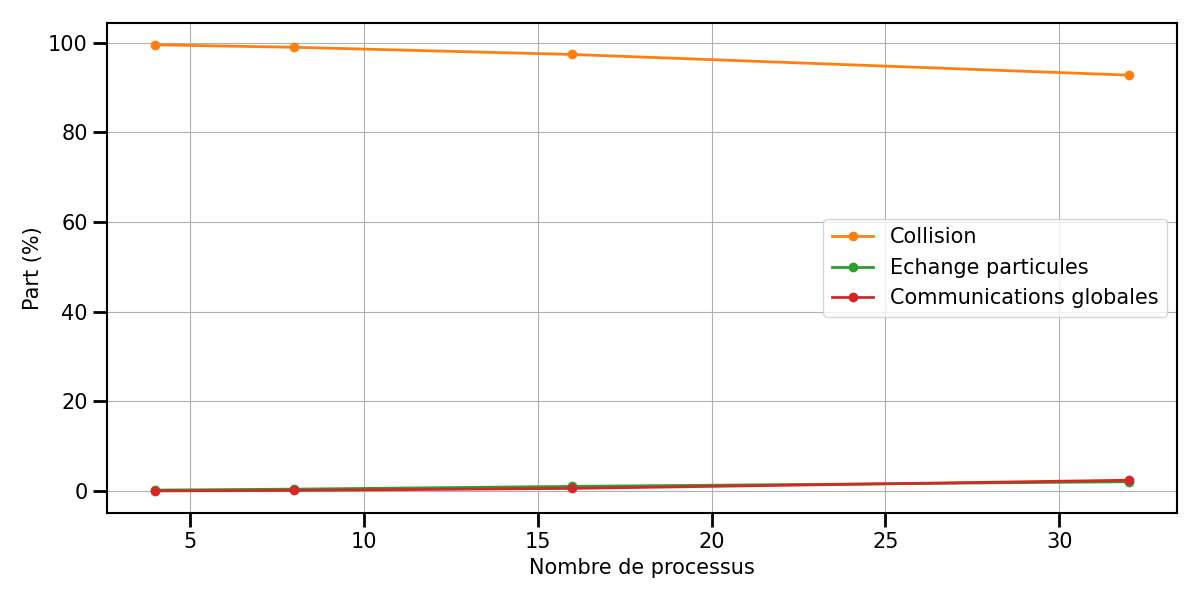
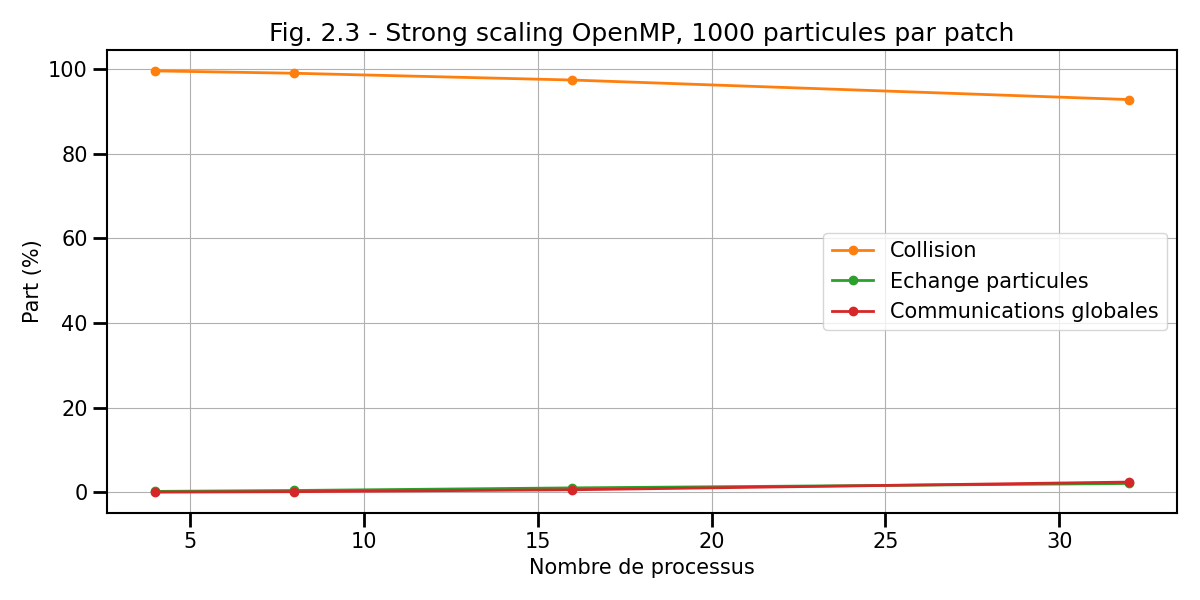
Marble: scaling figures

diff --git a/tp/marble/scalings/strong_scaling_mpi_ppp1000.py b/tp/marble/scalings/strong_scaling_mpi_ppp1000.py
@@ -57,38 +57,52 @@ rcParams['ytick.major.width'] = 2
 rcParams['xtick.minor.width'] = 1.5
 rcParams['ytick.minor.width'] = 1.5
 
+rcParams['axes.grid'] = True
+
+
 # ______________________________________________________________________________
 # Figure temps de simulation
 
-fig = figure(figsize=(12, 6))
+fig0 = figure(figsize=(12, 8))
 gs = GridSpec(2, 2)
-ax = subplot(gs[:,:])
+ax0 = subplot(gs[0,:])
+ax1 = subplot(gs[1,:])
 
-ax.plot(times["cores"],times["loop"],lw=2,label="Boucle de calcul")
-ax.plot(times["cores"],times["collision"],lw=2,label="Collision")
-ax.plot(times["cores"],times["exchange"],lw=2,label="Echange particules")
-ax.plot(times["cores"],times["global"],lw=2,label="Communications globales")
-ax.plot(times["cores"],times["pusher"],lw=2,label="Equation du mouvement")
+ax0.plot(times["cores"],times["loop"],lw=2,label="Boucle de calcul")
+ax0.plot(times["cores"],times["collision"],lw=2,label="Collision")
+ax1.plot(times["cores"],times["exchange"],lw=2,label="Echange particules")
+ax1.plot(times["cores"],times["global"],lw=2,label="Communications globales")
+ax1.plot(times["cores"],times["pusher"],lw=2,label="Equation du mouvement")
 
-ax.set_xlabel("Nombre de processus")
-ax.set_ylabel("Temps (s)")
+ax0.set_xlabel("Nombre de processus")
+ax0.set_ylabel("Temps (s)")
+
+ax1.set_xlabel("Nombre de processus")
+ax1.set_ylabel("Temps (s)")
+
+ax0.set_title("Fig. 5.1 - Strong scaling MPI, 1000 particules par patch")
 
 #ax.set_yscale("log")
 
-ax.legend(loc="best",ncol=2)
+ax0.legend(loc="best",ncol=2)
+ax1.legend(loc="best",ncol=2)
 
-fig.tight_layout()
+fig0.tight_layout()
+
+fig0.savefig("../../../support/materiel/marble_mpi_strong_scaling_ppp1000_time.png")
 
 # ______________________________________________________________________________
 # Figure efficacite
 
-fig = figure(figsize=(12, 6))
+fig1 = figure(figsize=(12, 6))
 gs = GridSpec(2, 2)
 ax = subplot(gs[:,:])
 
 ax.plot(times["cores"],times["efficiency"],lw=2,label="Simulation")
 
 ax.plot([times["cores"].min(), times["cores"].max()],[1,1],lw=2,label="Scalabilite parfaite")
+
+ax.set_title("Fig. 5.2 - Strong scaling MPI, 1000 particules par patch")
 
 # ax.set_ylim([0.,1.1])
 
@@ -97,12 +111,14 @@ ax.set_ylabel("Efficacite")
 
 ax.legend(loc="best")
 
-fig.tight_layout()
+fig1.tight_layout()
+
+fig1.savefig("../../../support/materiel/marble_mpi_strong_scaling_ppp1000_efficiency.png")
 
 # ______________________________________________________________________________
 # Figure Part MPI
 
-fig = figure(figsize=(12, 6))
+fig2 = figure(figsize=(12, 6))
 gs = GridSpec(2, 2)
 ax = subplot(gs[:,:])
 
@@ -110,12 +126,16 @@ ax.plot(times["cores"],times["collision"]/times["loop"]*100.,lw=2,color='C1',lab
 ax.plot(times["cores"],times["exchange"]/times["loop"]*100.,lw=2,color='C2',label='Echange particules')
 ax.plot(times["cores"],times["global"]/times["loop"]*100.,lw=2,color='C3',label='Communications globales')
 
+ax.set_title("Fig. 5.3 - Strong scaling MPI, 1000 particules par patch")
+
 ax.set_xlabel("Nombre de processus")
 ax.set_ylabel("Part (%)")
 
 ax.legend(loc="best")
 
-fig.tight_layout()
+fig2.tight_layout()
+
+fig2.savefig("../../../support/materiel/marble_mpi_strong_scaling_ppp1000_time.png")
 
 # _____________________________________________________________________________
 

diff --git a/tp/marble/scalings/weak_scaling_omp_ppp2000.py b/tp/marble/scalings/weak_scaling_omp_ppp2000.py
@@ -66,29 +66,36 @@ rcParams['axes.grid'] = True
 # ______________________________________________________________________________
 # Figure temps de simulation
 
-fig = figure(figsize=(12, 6))
+fig0 = figure(figsize=(12, 8))
 gs = GridSpec(2, 2)
-ax = subplot(gs[:,:])
+ax0 = subplot(gs[0,:])
+ax1 = subplot(gs[1,:])
 
-ax.plot(times["cores"],times["loop"],lw=2,label="Boucle de calcul",marker='o',color='C0')
-ax.plot(times["cores"],times["collision"],lw=2,label="Collision",marker='o',color='C1')
-ax.plot(times["cores"],times["exchange"],lw=2,label="Echange particules",marker='o',color='C2')
-ax.plot(times["cores"],times["global"],lw=2,label="Communications globales",marker='o',color='C3')
-ax.plot(times["cores"],times["pusher"],lw=2,label="Equation du mouvement",marker='o',color='C4')
+ax0.plot(times["cores"],times["loop"],lw=2,label="Boucle de calcul",marker='o',color='C0')
+ax0.plot(times["cores"],times["collision"],lw=2,label="Collision",marker='o',color='C1')
+ax1.plot(times["cores"],times["exchange"],lw=2,label="Echange particules",marker='o',color='C2')
+ax1.plot(times["cores"],times["global"],lw=2,label="Communications globales",marker='o',color='C3')
+ax1.plot(times["cores"],times["pusher"],lw=2,label="Equation du mouvement",marker='o',color='C4')
 
-ax.set_xlabel("Nombre de processus")
-ax.set_ylabel("Temps (s)")
+ax0.set_xlabel("Nombre de processus")
+ax0.set_ylabel("Temps (s)")
+
+ax1.set_xlabel("Nombre de processus")
+ax1.set_ylabel("Temps (s)")
+
+ax0.set_title("Fig. 1.1 - Weak scaling OpenMP, 2000 particules par patch")
 
 #ax.set_yscale("log")
 
-ax.legend(loc="best",ncol=2)
+ax0.legend(loc="best",ncol=2)
+ax1.legend(loc="best",ncol=2)
 
-fig.tight_layout()
+fig0.tight_layout()
 
 # ______________________________________________________________________________
 # Figure efficacite
 
-fig = figure(figsize=(12, 6))
+fig1 = figure(figsize=(12, 6))
 gs = GridSpec(2, 2)
 ax = subplot(gs[:,:])
 
@@ -98,17 +105,19 @@ ax.plot([times["cores"].min(), times["cores"].max()],[1,1],lw=2,label="Scalabili
 
 ax.set_ylim([0.,1.1])
 
+ax.set_title("Fig. 1.2 - Weak scaling OpenMP, 2000 particules par patch")
+
 ax.set_xlabel("Nombre de processus")
 ax.set_ylabel("Efficacite")
 
 ax.legend(loc="best")
 
-fig.tight_layout()
+fig1.tight_layout()
 
 # ______________________________________________________________________________
 # Figure Part MPI
 
-fig = figure(figsize=(12, 6))
+fig2 = figure(figsize=(12, 6))
 gs = GridSpec(2, 2)
 ax = subplot(gs[:,:])
 
@@ -116,12 +125,14 @@ ax.plot(times["cores"],times["collision"]/times["loop"]*100.,lw=2,color='C1',lab
 ax.plot(times["cores"],times["exchange"]/times["loop"]*100.,lw=2,color='C2',label='part echange particules')
 ax.plot(times["cores"],times["global"]/times["loop"]*100.,lw=2,color='C3',label='part communications globales')
 
+ax.set_title("Fig. 1.3 - Weak scaling OpenMP, 2000 particules par patch")
+
 ax.set_xlabel("Nombre de processus")
 ax.set_ylabel("Part (%)")
 
 ax.legend(loc="best")
 
-fig.tight_layout()
+fig2.tight_layout()
 
 # _____________________________________________________________________________
 

diff --git a/tp/marble/scalings/weak_scaling_mpi_ppp2000.py b/tp/marble/scalings/weak_scaling_mpi_ppp2000.py
@@ -57,6 +57,8 @@ rcParams['ytick.major.width'] = 2
 rcParams['xtick.minor.width'] = 1.5
 rcParams['ytick.minor.width'] = 1.5
 
+rcParams['axes.grid'] = True
+
 # ______________________________________________________________________________
 # Figure temps de simulation
 
@@ -69,6 +71,9 @@ ax.plot(times["cores"],times["collision"],lw=2,label="Collision")
 ax.plot(times["cores"],times["exchange"],lw=2,label="Echange particules")
 ax.plot(times["cores"],times["global"],lw=2,label="Communications globales")
 ax.plot(times["cores"],times["pusher"],lw=2,label="Equation du mouvement")
+
+ax.set_title("Fig. 5.1 - Weak scaling MPI, 2000 particules par patch")
+
 
 ax.set_xlabel("Nombre de processus")
 ax.set_ylabel("Temps (s)")
@@ -90,6 +95,8 @@ ax.plot(times["cores"],times["efficiency"],lw=2,label="Simulation")
 
 ax.plot([times["cores"].min(), times["cores"].max()],[1,1],lw=2,label="Scalabilite parfaite")
 
+ax.set_title("Fig. 5.2 - Weak scaling MPI, 2000 particules par patch")
+
 ax.set_ylim([0.,1.1])
 
 ax.set_xlabel("Nombre de processus")
@@ -109,6 +116,8 @@ ax = subplot(gs[:,:])
 ax.plot(times["cores"],times["collision"]/times["loop"]*100.,lw=2,color='C1',label='part collision')
 ax.plot(times["cores"],times["exchange"]/times["loop"]*100.,lw=2,color='C2',label='part echange particules')
 ax.plot(times["cores"],times["global"]/times["loop"]*100.,lw=2,color='C3',label='part communications globales')
+
+ax.set_title("Fig. 5.3 - Weak scaling MPI, 2000 particules par patch")
 
 ax.set_xlabel("Nombre de processus")
 ax.set_ylabel("Part (%)")

diff --git a/tp/marble/scalings/weak_scaling_mpi_ppp500.py b/tp/marble/scalings/weak_scaling_mpi_ppp500.py
@@ -53,6 +53,8 @@ rcParams['ytick.major.width'] = 2
 rcParams['xtick.minor.width'] = 1.5
 rcParams['ytick.minor.width'] = 1.5
 
+rcParams['axes.grid'] = True
+
 # ______________________________________________________________________________
 # Figure temps de simulation
 
@@ -64,6 +66,8 @@ ax.plot(times["cores"],times["loop"],lw=2,label="Boucle de calcul")
 ax.plot(times["cores"],times["collision"],lw=2,label="Collision")
 ax.plot(times["cores"],times["exchange"],lw=2,label="Echange particules")
 ax.plot(times["cores"],times["global"],lw=2,label="Communications globales")
+
+ax.set_title("Fig. 4.1 - Weak scaling MPI, 500 particules par patch")
 
 ax.set_xlabel("Nombre de processus")
 ax.set_ylabel("Temps (s)")
@@ -85,6 +89,8 @@ ax.plot(times["cores"],times["efficiency"],lw=2,label="Simulation")
 
 ax.plot([times["cores"].min(), times["cores"].max()],[1,1],lw=2,label="Scalabilite parfaite")
 
+ax.set_title("Fig. 4.2 - Weak scaling MPI, 500 particules par patch")
+
 ax.set_ylim([0.,1.1])
 
 ax.set_xlabel("Nombre de processus")
@@ -104,6 +110,8 @@ ax = subplot(gs[:,:])
 ax.plot(times["cores"],times["collision"]/times["loop"]*100.,lw=2,color='C1',label='Collision')
 ax.plot(times["cores"],times["exchange"]/times["loop"]*100.,lw=2,color='C2',label='Echange particules')
 ax.plot(times["cores"],times["global"]/times["loop"]*100.,lw=2,color='C3',label='Communications globales')
+
+ax.set_title("Fig. 4.3 - Weak scaling MPI, 500 particules par patch")
 
 ax.set_xlabel("Nombre de processus")
 ax.set_ylabel("Part (%)")

diff --git a/tp/marble/scalings/strong_scaling_omp_ppp1000.py b/tp/marble/scalings/strong_scaling_omp_ppp1000.py
@@ -81,6 +81,8 @@ ax1.set_ylabel("Temps (s)")
 
 #ax.set_yscale("log")
 
+ax0.set_title("Fig. 2.1 - Strong scaling OpenMP, 1000 particules par patch")
+
 ax0.legend(loc="best",ncol=2)
 ax1.legend(loc="best",ncol=2)
 
@@ -99,6 +101,8 @@ ax.plot([times["cores"].min(), times["cores"].max()],[1,1],lw=2,label="Scalabili
 
 # ax.set_ylim([0.,1.1])
 
+ax.set_title("Fig. 2.2 - Strong scaling OpenMP, 1000 particules par patch")
+
 ax.set_xlabel("Nombre de processus")
 ax.set_ylabel("Efficacite")
 
@@ -116,6 +120,8 @@ ax = subplot(gs[:,:])
 ax.plot(times["cores"],times["collision"]/times["loop"]*100.,lw=2,color='C1',label='Collision',marker='o')
 ax.plot(times["cores"],times["exchange"]/times["loop"]*100.,lw=2,color='C2',label='Echange particules',marker='o')
 ax.plot(times["cores"],times["global"]/times["loop"]*100.,lw=2,color='C3',label='Communications globales',marker='o')
+
+ax.set_title("Fig. 2.3 - Strong scaling OpenMP, 1000 particules par patch")
 
 ax.set_xlabel("Nombre de processus")
 ax.set_ylabel("Part (%)")

diff --git a/tp/marble/README_source.md b/tp/marble/README_source.md
@@ -983,7 +983,7 @@ Pour chaque figure, on s'intéresse à la fois à la boucle en temps total mais 
 - Echange des particules
 - Calcul des grandeurs globales
 
-**Weak scaling pour le code OpenMP**
+**Etude de weak scaling pour le code OpenMP**
 
 On rappelle que pour une étude de *weak scaling*, la taille du domaine varie avec le nombre de processus mais la charge par processus reste constante.
 Pour cette étude, chaque processus ne s'occupe que d'un seul patch.
@@ -994,16 +994,46 @@ A titre d'exemple, la commande utilisé pour lancer le code sur 8 coeurs est la 
 ./executable -patch 2 2 2 -t 10 -it 500 -diags 1000 -print 100 -np 16000 -air_damping 0 -gravity 0 0 0 -wall_damping 0 -collision_damping 0.01 -collision 1 -velocity 0.5 0.5 -x 0 2 -y 0 2 -z 0 2 -r 0.01 -mass 0.5 0.5 -overlap 0
 ```
 
+<img src="../../support/materiel/marble_omp_weak_scaling_ppp2000_time.png" height="400">
+<img src="../../support/materiel/marble_omp_weak_scaling_ppp2000_efficiency.png" height="400">
+<img src="../../support/materiel/marble_omp_weak_scaling_ppp2000_part.png" height="400">
+
+**Première étude de strong scaling pour le code OpenMP**
+
+On rappelle que pour une étude de *strong scaling*, La charge totale reste constante de telle sorte que la charge par processus varie.
+Ici, le domaine total garde donc la même taille avec le même nombre total de particules.
+Pour cette étude, chaque processus ne s'occupe que d'un seul patch.
+Le domaine a pour taille $[xxx, xxx, xxx]$ avec un nombre total de xxx particules.
+On utilise un *SCHEDULER* OpenMP `STATIC`: `OMP_SCHEDULE=STATIC`.
+A titre d'exemple, la commande utilisé pour lancer le code sur 8 coeurs est la suivante :
+```bash
+xxx
+```
+
 <img src="../../support/materiel/marble_omp_strong_scaling_ppp1000_time.png" height="400">
 <img src="../../support/materiel/marble_omp_strong_scaling_ppp1000_efficiency.png" height="400">
 <img src="../../support/materiel/marble_omp_strong_scaling_ppp1000_part.png" height="400">
 
-**Strong scaling pour le code OpenMP**
+**Deuxième étude de strong scaling pour le code OpenMP**
+
+**Première étude de weak scaling pour le code MPI**
 
 <img src="../../support/materiel/marble_mpi_weak_scaling_ppp500_time.png" height="400">
 <img src="../../support/materiel/marble_mpi_weak_scaling_ppp500_efficiency.png" height="400">
 <img src="../../support/materiel/marble_mpi_weak_scaling_ppp500_part.png" height="400">
 
-**Question 5.1 - Etude de scalabilité faible pour OpenMP :**
+**Deuxième étude de weak scaling pour le code MPI**
 
-a) Justifiez pourquoi le SCHEDULER `STATIC` est le plus adéquate ici ?
+<img src="../../support/materiel/marble_mpi_weak_scaling_ppp2000_time.png" height="400">
+<img src="../../support/materiel/marble_mpi_weak_scaling_ppp2000_efficiency.png" height="400">
+<img src="../../support/materiel/marble_mpi_weak_scaling_ppp2000_part.png" height="400">
+
+**Etude de strong scaling pour le code MPI**
+
+<img src="../../support/materiel/marble_mpi_strong_scaling_ppp1000_time.png" height="400">
+<img src="../../support/materiel/marble_mpi_strong_scaling_ppp1000_efficiency.png" height="400">
+<img src="../../support/materiel/marble_mpi_strong_scaling_ppp1000_part.png" height="400">
+
+**Question 5.1 - OpenMP :**
+
+a) Justifiez pourquoi le SCHEDULER `STATIC` est le plus adéquate pour les études OpenMP ?
